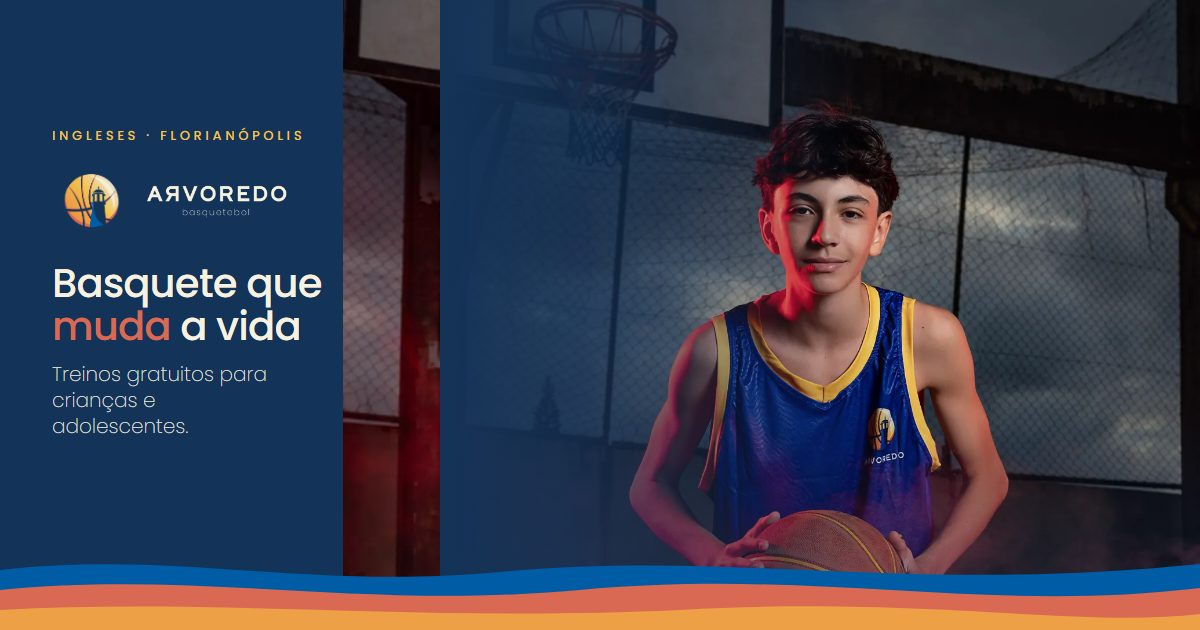
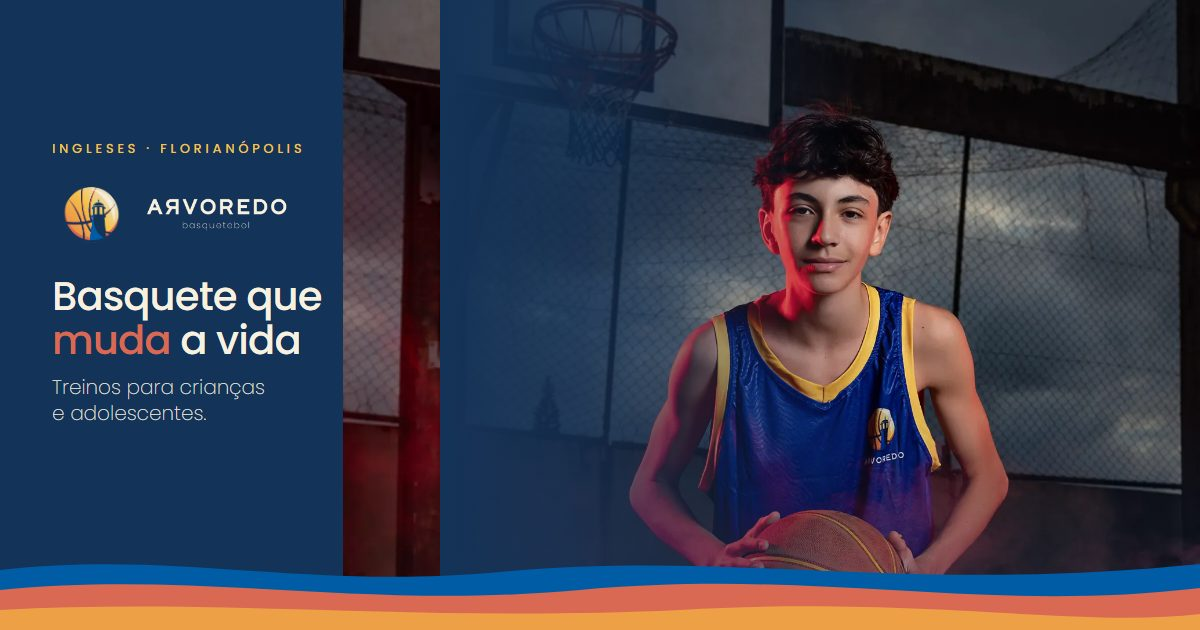
Remove 'gratuitos' from site copy and share preview.

Changed region(s): [[0.0308, 0.4222, 0.2775, 0.6937], [0.0308, 0.2714, 0.2467, 0.3921], [0.0308, 0.181, 0.2775, 0.2413]]

diff --git a/index.html b/index.html
@@ -4,24 +4,24 @@
 <meta charset="UTF-8">
 <meta name="viewport" content="width=device-width, initial-scale=1.0">
 <title>Instituto Arvoredo Basquetebol — Apoie o basquete dos Ingleses</title>
-<meta name="description" content="Projeto social de basquete nos Ingleses, Florianópolis. Mais de 100 crianças e adolescentes em treinos gratuitos. Seja parceiro ou doe via Pix.">
+<meta name="description" content="Projeto social de basquete nos Ingleses, Florianópolis. Mais de 100 crianças e adolescentes em treinos. Seja parceiro ou doe via Pix.">
 <link rel="canonical" href="https://arvoredobasquete.pages.dev/">
 <meta property="og:title" content="Instituto Arvoredo Basquetebol">
-<meta property="og:description" content="Treinos gratuitos para mais de 100 crianças e adolescentes nos Ingleses, Florianópolis. Seja parceiro ou doe via Pix.">
+<meta property="og:description" content="Treinos para mais de 100 crianças e adolescentes nos Ingleses, Florianópolis. Seja parceiro ou doe via Pix.">
 <meta property="og:type" content="website">
 <meta property="og:url" content="https://arvoredobasquete.pages.dev/">
 <meta property="og:locale" content="pt_BR">
 <meta property="og:site_name" content="Instituto Arvoredo Basquetebol">
-<meta property="og:image" content="https://arvoredobasquete.pages.dev/assets/brand/og-share.jpg?v=3">
-<meta property="og:image:secure_url" content="https://arvoredobasquete.pages.dev/assets/brand/og-share.jpg?v=3">
+<meta property="og:image" content="https://arvoredobasquete.pages.dev/assets/brand/og-share.jpg?v=4">
+<meta property="og:image:secure_url" content="https://arvoredobasquete.pages.dev/assets/brand/og-share.jpg?v=4">
 <meta property="og:image:type" content="image/jpeg">
 <meta property="og:image:width" content="1200">
 <meta property="og:image:height" content="630">
 <meta property="og:image:alt" content="Instituto Arvoredo Basquetebol — basquete que muda a vida">
 <meta name="twitter:card" content="summary_large_image">
 <meta name="twitter:title" content="Instituto Arvoredo Basquetebol">
-<meta name="twitter:description" content="Treinos gratuitos para mais de 100 crianças e adolescentes nos Ingleses, Florianópolis.">
-<meta name="twitter:image" content="https://arvoredobasquete.pages.dev/assets/brand/og-share.jpg?v=3">
+<meta name="twitter:description" content="Treinos para mais de 100 crianças e adolescentes nos Ingleses, Florianópolis.">
+<meta name="twitter:image" content="https://arvoredobasquete.pages.dev/assets/brand/og-share.jpg?v=4">
 <link rel="icon" type="image/png" sizes="64x64" href="assets/brand/favicon-64.png">
 <link rel="apple-touch-icon" href="assets/brand/apple-touch-icon.png">
 <link rel="preconnect" href="https://fonts.googleapis.com">
